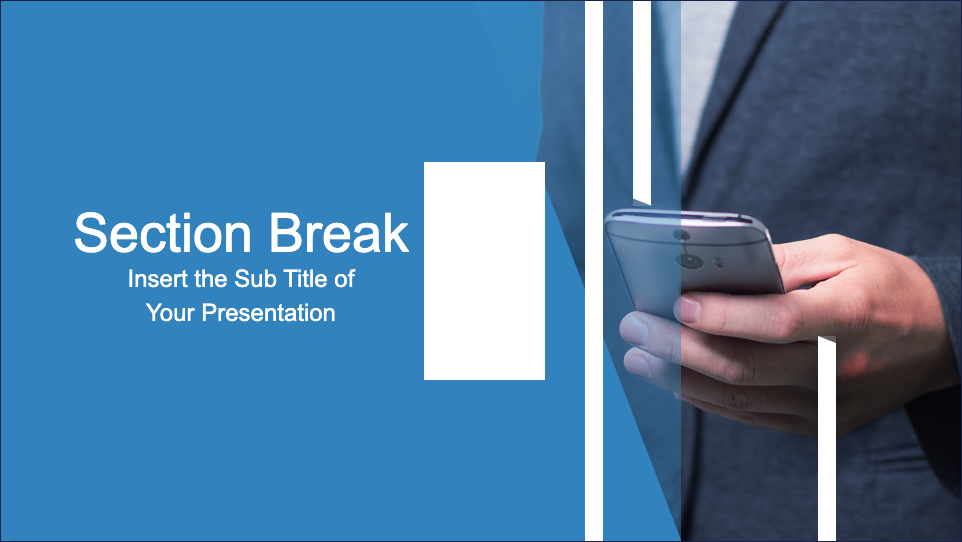
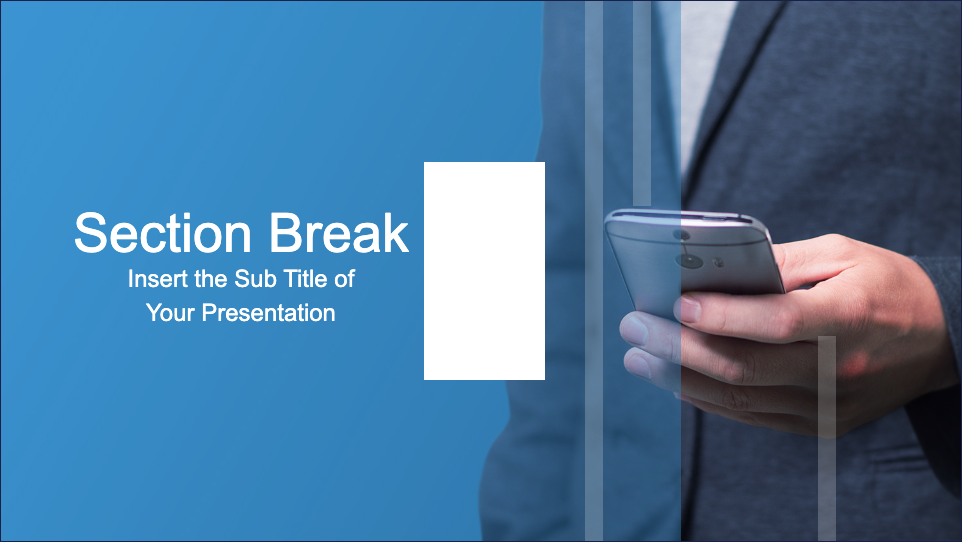
Tighten title-slide decorative rendering without regressing the sample corpus
The remaining PPT sample mismatches still center on title/hero slides, but broad
changes to decorative rendering had already shown they could regress unrelated
slides. This stage narrows the decorative-shape rendering logic to title-slide
cover compositions and refreshes the screenshot evidence so the corpus report
captures the latest safer heuristics instead of a transient local state.

Constraint: The sample corpus is the regression oracle, so decorative-rendering tweaks must be proven against regenerated screenshot artifacts
Constraint: Title-slide improvements must not regress the already-stable industrial and agenda slides
Rejected: Apply decorative SVG rendering broadly to all custom shapes | it previously regressed sample1 badly
Rejected: Leave the heuristic adjustments uncommitted while iterating | it would lose the evidence trail for the safer narrowed path
Confidence: medium
Scope-risk: narrow
Reversibility: clean
Directive: Keep decorative rendering heuristics scoped to the slide archetypes they actually improve, and always refresh the screenshot report in the same stage
Tested: npm run build --workspace @ooxml/example-basic; npm run quality:ppt-sample-screenshots; sample score spot-checks for sample1/sample5/sample6 title slides
Not-tested: Full repo verification suite after this narrowed decorative-rendering stage

Changed region(s): [[0.499, 0.0, 0.7173, 1.0], [0.842, 0.6199, 0.8732, 1.0], [0.6549, 0.0, 0.6861, 0.3838]]

diff --git a/examples/basic/src/main.ts b/examples/basic/src/main.ts
@@ -676,9 +676,9 @@ function enhancePresentationPreview(): void {
       const shouldRenderPath = Boolean(
         pathCommands
         && titleLike
-        && !lineColor
         && fillColor
-        && !isDarkColor(fillColor)
+        && !darkBackground
+        && shape.dataset.shapeType === 'custom'
       );
       if (shouldRenderPath) {
         const svgMarkup = buildDecorativeSvg(pathCommands ?? '', fillColor, lineColor, lineWidth);
@@ -828,6 +828,23 @@ function buildDecorativeSvg(pathCommands: string, fillColor?: string, lineColor?
       continue;
     }
     const [type, pair] = segment.split(':');
+    if (type === 'C') {
+      const [p1, p2, p3] = (pair ?? '').split('|');
+      const [x1Raw, y1Raw] = (p1 ?? '').split(',');
+      const [x2Raw, y2Raw] = (p2 ?? '').split(',');
+      const [xRaw, yRaw] = (p3 ?? '').split(',');
+      const x1 = Number(x1Raw);
+      const y1 = Number(y1Raw);
+      const x2 = Number(x2Raw);
+      const y2 = Number(y2Raw);
+      const x = Number(xRaw);
+      const y = Number(yRaw);
+      if ([x1, y1, x2, y2, x, y].every(Number.isFinite)) {
+        points.push({ x: x1, y: y1 }, { x: x2, y: y2 }, { x, y });
+        commands.push(`C ${x1} ${y1} ${x2} ${y2} ${x} ${y}`);
+      }
+      continue;
+    }
     const [xRaw, yRaw] = (pair ?? '').split(',');
     const x = Number(xRaw);
     const y = Number(yRaw);
